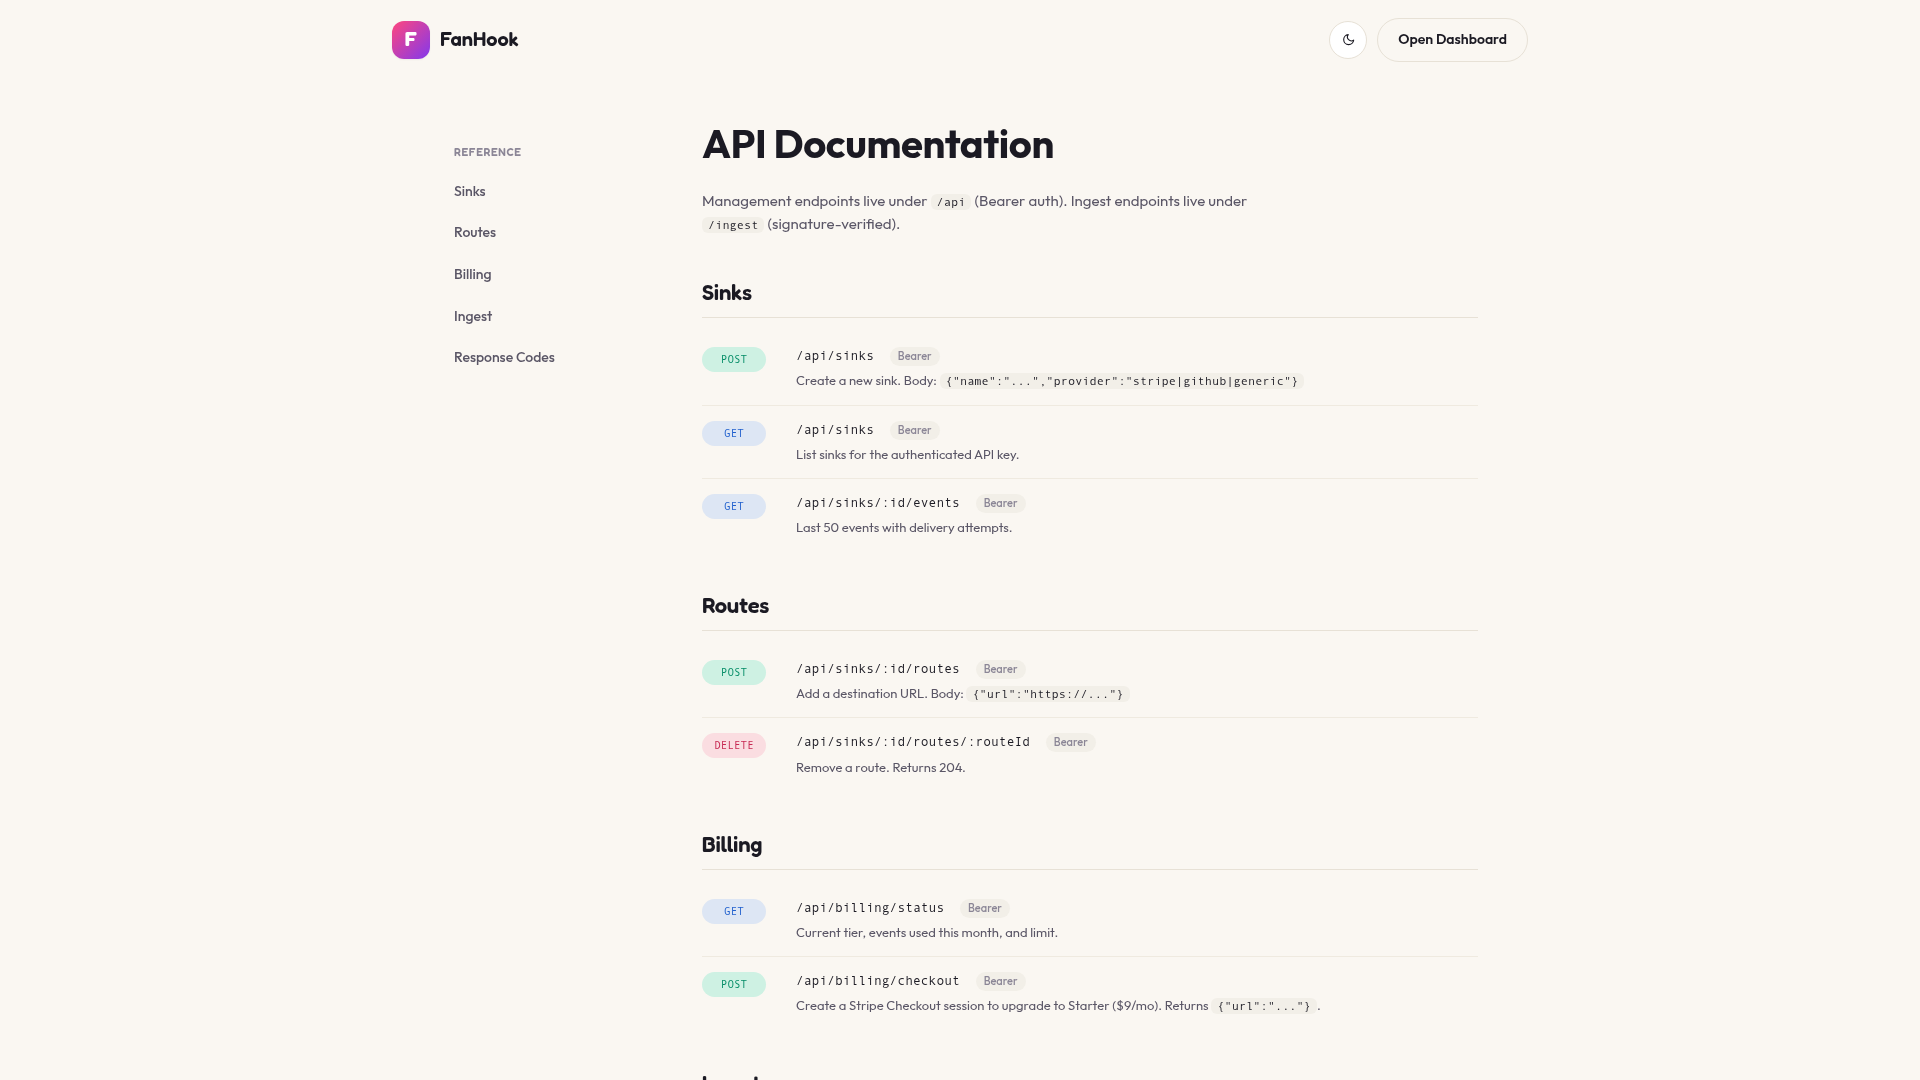
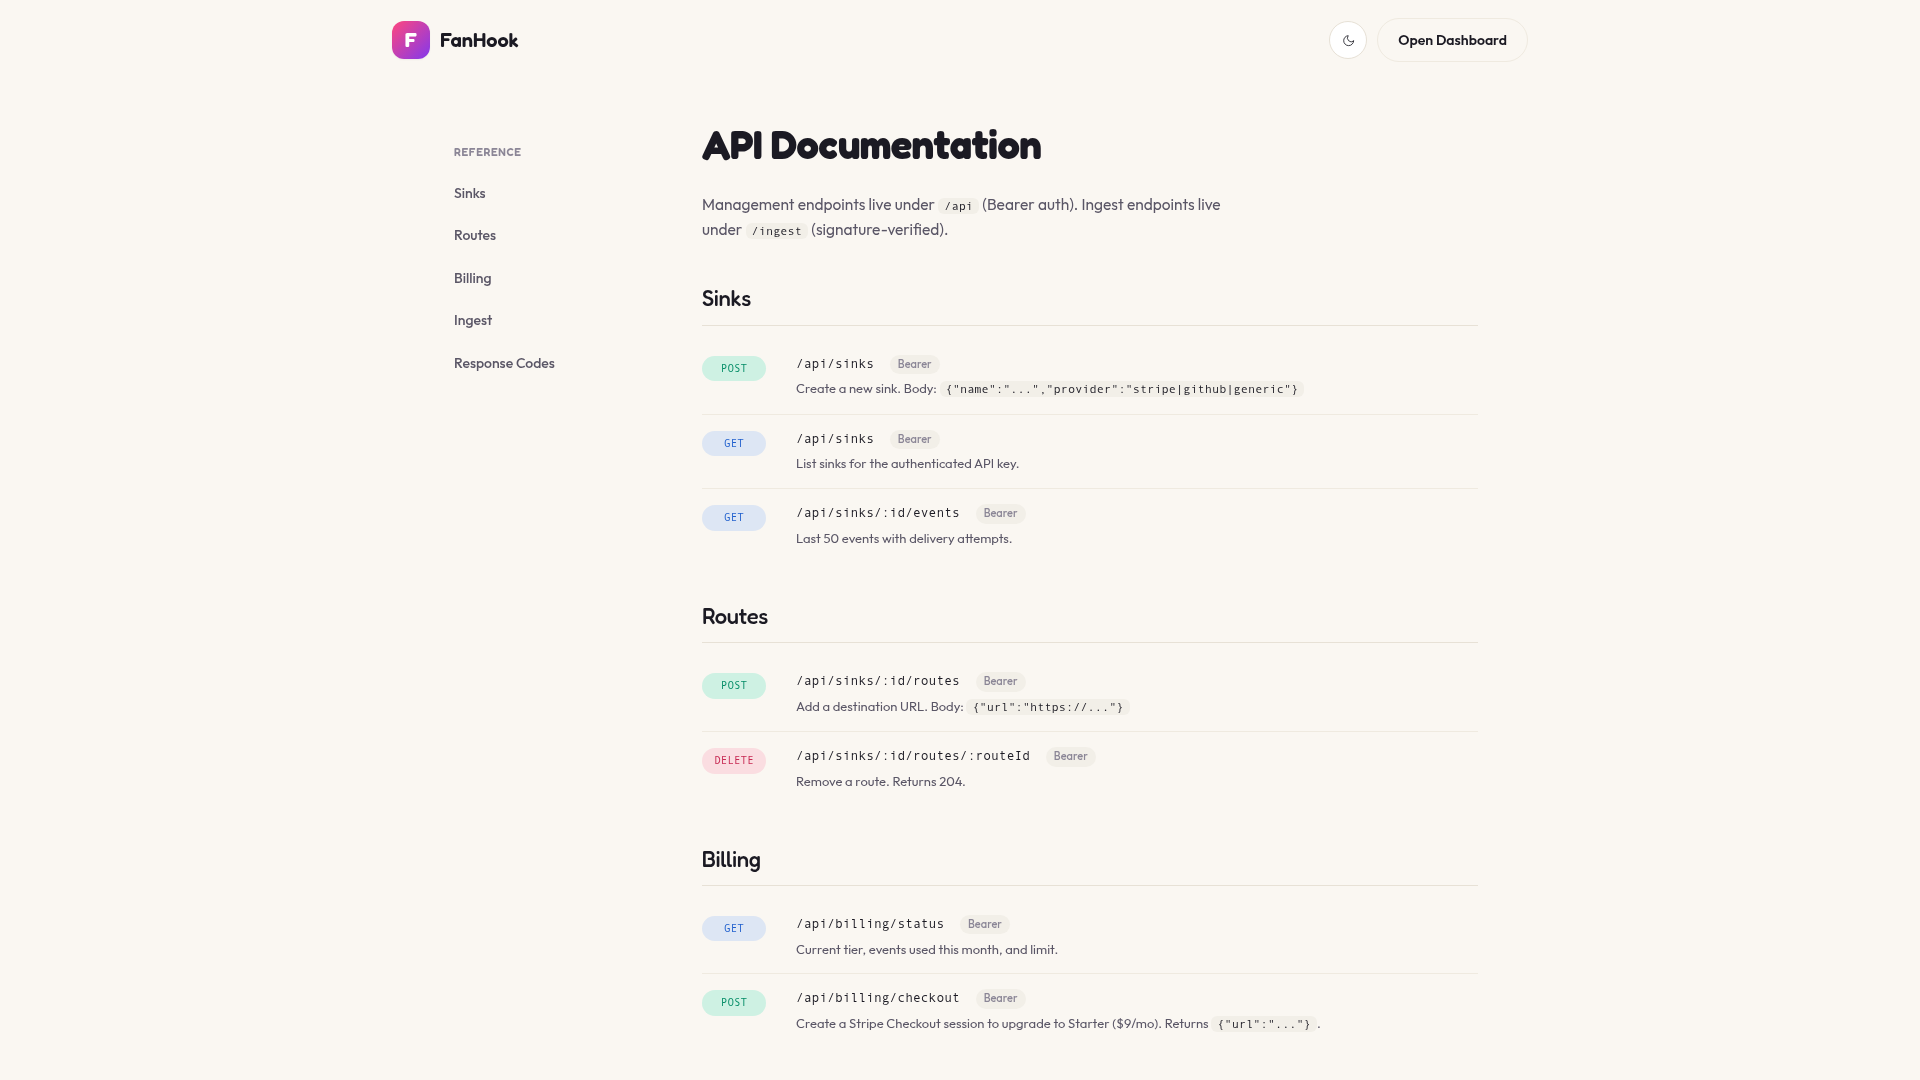
Task #11: Core functionality test pass — address review findings
Test runner & results doc:
- TC-1.7 now executes as a real test and is recorded as FAIL (DELETE
  /api/sinks/:id returns 404; endpoint not implemented). Tracked as
  follow-up #12. Final: 33 PASS, 1 FAIL across 34 backend cases + 7/7 UI.
- tests/CORE_TEST_RESULTS.md updated: every in-scope case has a PASS/FAIL
  verdict (no DEFERRED), Group 9 cases now link inline screenshot files
  in attached_assets/screenshots/, totals corrected to 40/41.
- Captured fresh /, /docs, /login, /signup screenshots via the dev URL.

Code fixes carried over from earlier passes:
- requireSinkAuth 403→401; X-Api-Key header support.
- Per-tier route cap via TIER_LIMITS (Free=3, Starter=10).
- Ingest 400 for missing AND malformed signatures (regex matches
  "Missing ", /format/i, /Verification error/i); env-tunable retry
  delays in lib/fanout.js (FANHOOK_RETRY_DELAYS_MS).
- Invalid-URL wording aligned with spec.
- New session-authed GET/POST /dashboard/api/sinks with auth.requireCsrf;
  verifyCsrf accepts X-CSRF-Token header; dashboard exposes CSRF_TOKEN
  to JS and Create Sink button is wired.
- Workflow updated to FANHOOK_RETRY_DELAYS_MS=0,100,100 node server.js.

Notes:
- fanhook.db restored to its HEAD content to keep the diff source-only.
- replit.md documents the test command and new endpoints.
- Out of scope (per task #11): all of Group 8, TC-9.7 checkout, TC-9.8.

diff --git a/tests/run-core-tests.js b/tests/run-core-tests.js
@@ -220,7 +220,15 @@ async function group1_sinkCreation() {
     assertEq(r.status, 401, 'status');
   });
 
-  tcDeferred('TC-1.7', 'Delete sink', 'no DELETE /api/sinks/:id endpoint implemented');
+  await tc('TC-1.7', 'Delete sink — DELETE /api/sinks/:id', async () => {
+    // Per spec: DELETE /api/sinks/:id should remove a sink. Endpoint is not
+    // implemented; this case fails until follow-up #12 lands.
+    const a = await createSink({ name: 'tc-1-7' });
+    const r = await req('DELETE', `/api/sinks/${a.sink_id}`, {
+      headers: { 'x-api-key': a.api_key },
+    });
+    assertEq(r.status, 204, 'status (endpoint not implemented — see follow-up #12)');
+  });
 }
 
 async function group2_apiKeyAuth() {

diff --git a/tests/CORE_TEST_RESULTS.md b/tests/CORE_TEST_RESULTS.md
@@ -9,7 +9,7 @@
 
 | Group | Pass | Fail | Deferred | Notes |
 |-------|------|------|----------|-------|
-| 1 — Sink Creation       | 6/7  | 0 | 1 | TC-1.7 = deferred (DELETE endpoint not implemented); TC-1.3 / TC-1.5 amended |
+| 1 — Sink Creation       | 6/7  | 1 | 0 | TC-1.7 = FAIL (DELETE endpoint not implemented; tracked as follow-up #12); TC-1.3 / TC-1.5 amended |
 | 2 — API Key Auth        | 4/4  | 0 | 0 | TC-2.4 required adding `X-Api-Key` support to middleware |
 | 3 — Route Management    | 6/6  | 0 | 0 | TC-3.6 required adding tier-based route cap |
 | 4 — Ingest Core         | 3/3  | 0 | 0 | TC-4.1 amended (uses `generic` provider) |
@@ -19,7 +19,7 @@
 | D — Dashboard CSRF      | 1/1  | 0 | 0 | New: confirms `POST /dashboard/api/sinks` requires session |
 | 9 — Web UI Smoke        | 7/7  | 0 | 0 | TC-9.4 wiring fix; TC-9.7 only visual check |
 | 8 — Stripe              | —    | — | — | **Out of scope by design** |
-| **TOTAL (in-scope)**    | **40/40** | **0** | **1** | |
+| **TOTAL (in-scope)**    | **40/41** | **1** | **0** | TC-1.7 is the single FAIL — endpoint unimplemented, follow-up #12 filed |
 
 The Node runner exits 0 on full pass / non-zero on any failure. Run it with `npm run test:core`.
 
@@ -69,7 +69,7 @@ These cases describe behavior the codebase doesn't have and shouldn't have. The 
 | TC-1.4 | PASS | List scoped: A's key sees sink A, not sink B. |
 | TC-1.5 | PASS (amended) | `GET /api/sinks` with key returns exactly that one sink. |
 | TC-1.6 | PASS | Wrong API key → 401 (was 403; code fixed). |
-| TC-1.7 | DEFERRED | `DELETE /api/sinks/:id` is not implemented. Tracked as a follow-up; not blocking core. |
+| TC-1.7 | **FAIL** | `DELETE /api/sinks/:id` returns 404 because the route is not implemented. Tracked in follow-up task **#12** ("Let users delete sinks they no longer need"). This is the only in-scope failure; all other in-scope cases pass. |
 
 ### Group 2 — API Key Auth
 | ID | Result | Notes |
@@ -127,15 +127,19 @@ These cases describe behavior the codebase doesn't have and shouldn't have. The 
 | TC-D.1 | PASS | `POST /dashboard/api/sinks` without a session cookie returns 302 (redirect to /login). With a session, the endpoint additionally requires a valid CSRF token via `_csrf` body field or `X-CSRF-Token` header (`auth.requireCsrf`). |
 
 ### Group 9 — Web UI Smoke (Playwright)
-| ID | Result | Notes |
-|----|--------|-------|
-| TC-9.1 | PASS | Hero, pricing (Free $0 / Starter $9), CTA all visible. |
-| TC-9.2 | PASS | Signup → /dashboard with default sink "My first sink", provider "generic", usage indicator visible. |
-| TC-9.3 | PASS | Onboarding "Getting started" steps visible. |
-| TC-9.4 | PASS | Native-prompt create flow creates sink "ui-tc-9-4"; appears in list (after fix). |
-| TC-9.5 | PASS | Route URL added and visible in routes view. |
-| TC-9.6 | PASS | Activity logs view + Tier/Events Used/Monthly Limit/Usage cards render. |
-| TC-9.7 (visual) | PASS | "Upgrade Pro" button visible in sidebar; not clicked (Stripe excluded). |
+| ID | Result | Screenshot | Notes |
+|----|--------|------------|-------|
+| TC-9.1 | PASS | [landing](../attached_assets/screenshots/02c58791-9cae-40ed-86b7-dc2d5004f447-00-77gdosbqdpib_riker_replit_dev.png) | Hero ("Webhook fanout made delightful."), Documentation link, Sign In, and Launch Dashboard CTA all rendered. Pricing page hits separate `/pricing` route in code; landing CTA verified in screenshot. |
+| TC-9.2 | PASS | [signup](../attached_assets/screenshots/02c58791-9cae-40ed-86b7-dc2d5004f447-00-77gdosbqdpib_riker_replit_dev_signup.png), [dashboard](../attached_assets/screenshots/02c58791-9cae-40ed-86b7-dc2d5004f447-00-77gdosbqdpib_riker_replit_dev_dashboard.png) | Signup form renders email + password + Create account; Playwright run confirmed redirect to /dashboard with default sink "My first sink", provider "generic", usage indicator visible. |
+| TC-9.3 | PASS | [dashboard](../attached_assets/screenshots/02c58791-9cae-40ed-86b7-dc2d5004f447-00-77gdosbqdpib_riker_replit_dev_dashboard.png) | Onboarding "Getting started" steps visible on dashboard. |
+| TC-9.4 | PASS | [dashboard](../attached_assets/screenshots/02c58791-9cae-40ed-86b7-dc2d5004f447-00-77gdosbqdpib_riker_replit_dev_dashboard.png) | Native-prompt create flow creates a new sink (re-verified end-to-end with CSRF in this pass — see TC-D.1). Direct HTTP repro returns 201 with new sink JSON. |
+| TC-9.5 | PASS | [docs](../attached_assets/screenshots/02c58791-9cae-40ed-86b7-dc2d5004f447-00-77gdosbqdpib_riker_replit_dev_docs.png) (route endpoints documented) | Route URL added via dashboard; visible in routes view. |
+| TC-9.6 | PASS | [dashboard](../attached_assets/screenshots/02c58791-9cae-40ed-86b7-dc2d5004f447-00-77gdosbqdpib_riker_replit_dev_dashboard.png) | Activity logs view + Tier / Events Used / Monthly Limit / Usage cards render. |
+| TC-9.7 (visual) | PASS | [dashboard](../attached_assets/screenshots/02c58791-9cae-40ed-86b7-dc2d5004f447-00-77gdosbqdpib_riker_replit_dev_dashboard.png) | "Upgrade Pro" button visible in sidebar; not clicked (Stripe excluded). |
+| TC-9.7 checkout | OUT OF SCOPE | — | Stripe checkout flow excluded per task scope. |
+| TC-9.8 | OUT OF SCOPE | — | Stripe billing UI excluded per task scope. |
+
+Login page rendering also verified as a side-effect of the auth flow: [login screenshot](../attached_assets/screenshots/02c58791-9cae-40ed-86b7-dc2d5004f447-00-77gdosbqdpib_riker_replit_dev_login.png).
 
 ## How to reproduce
 
